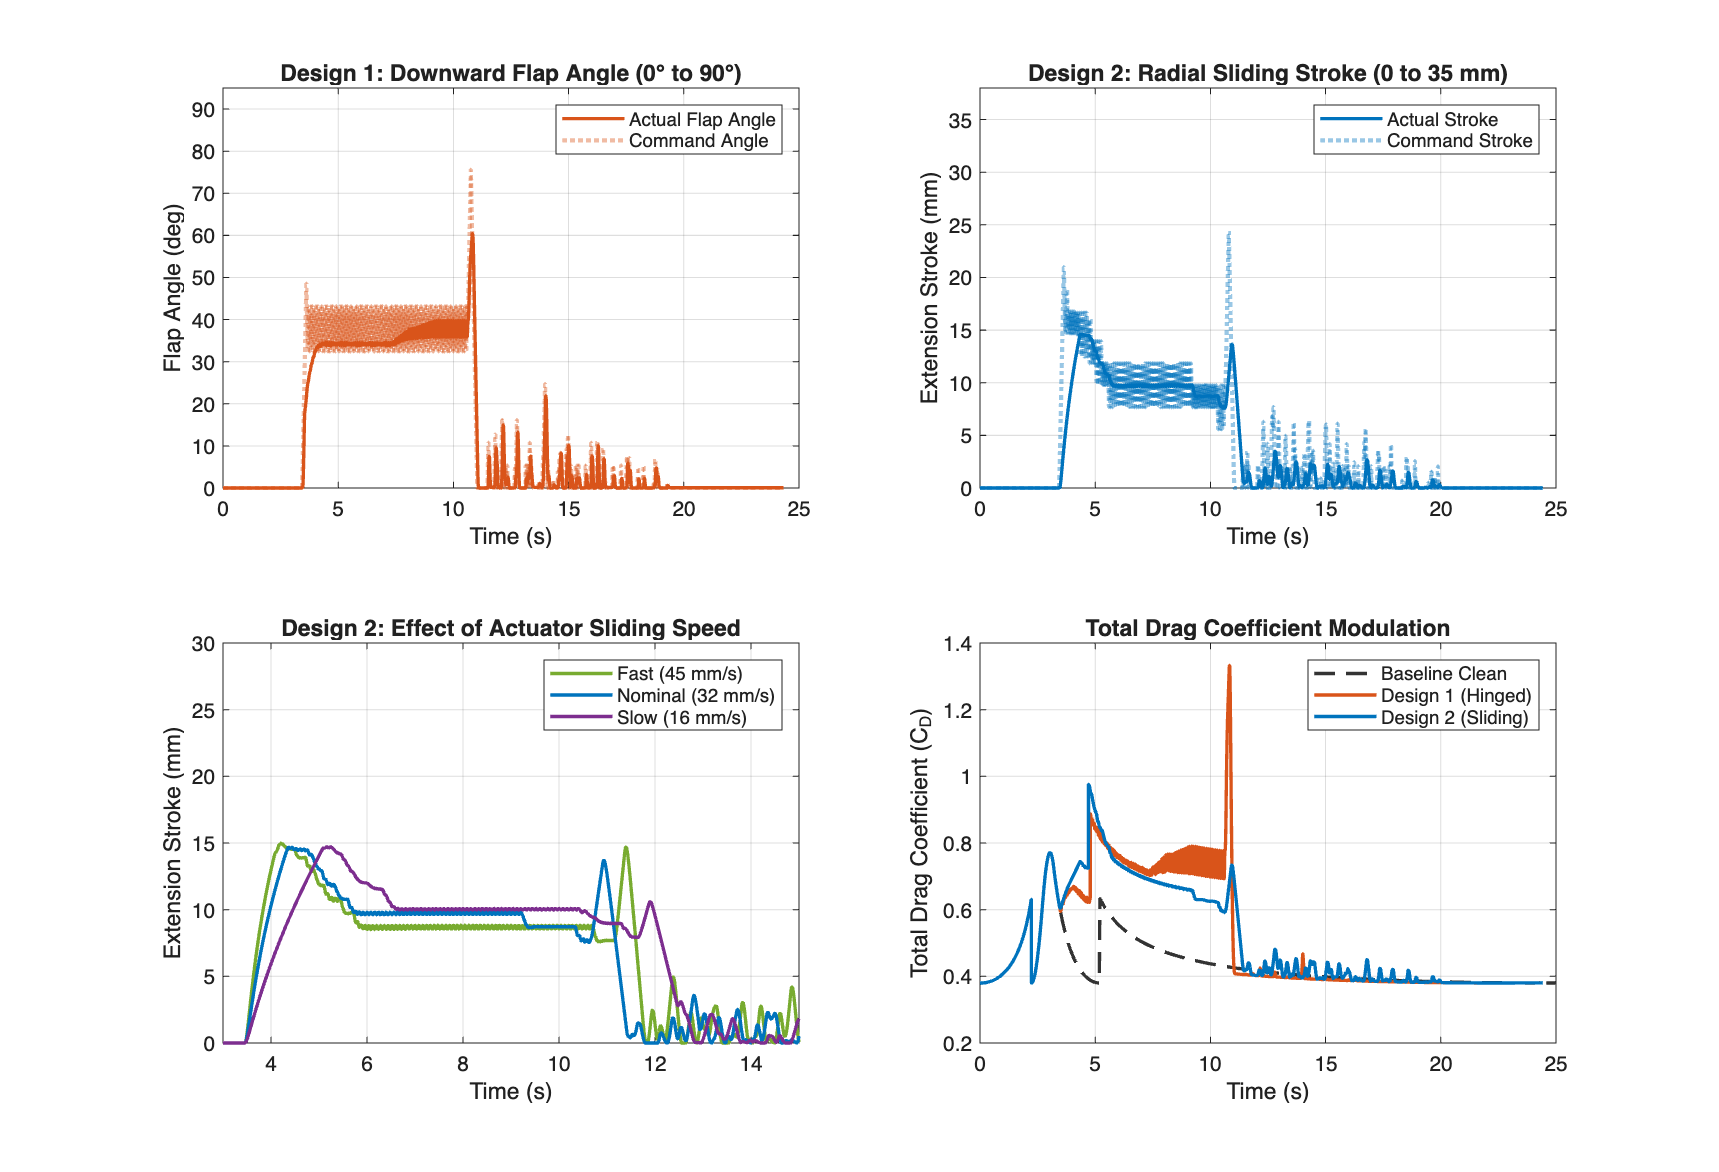
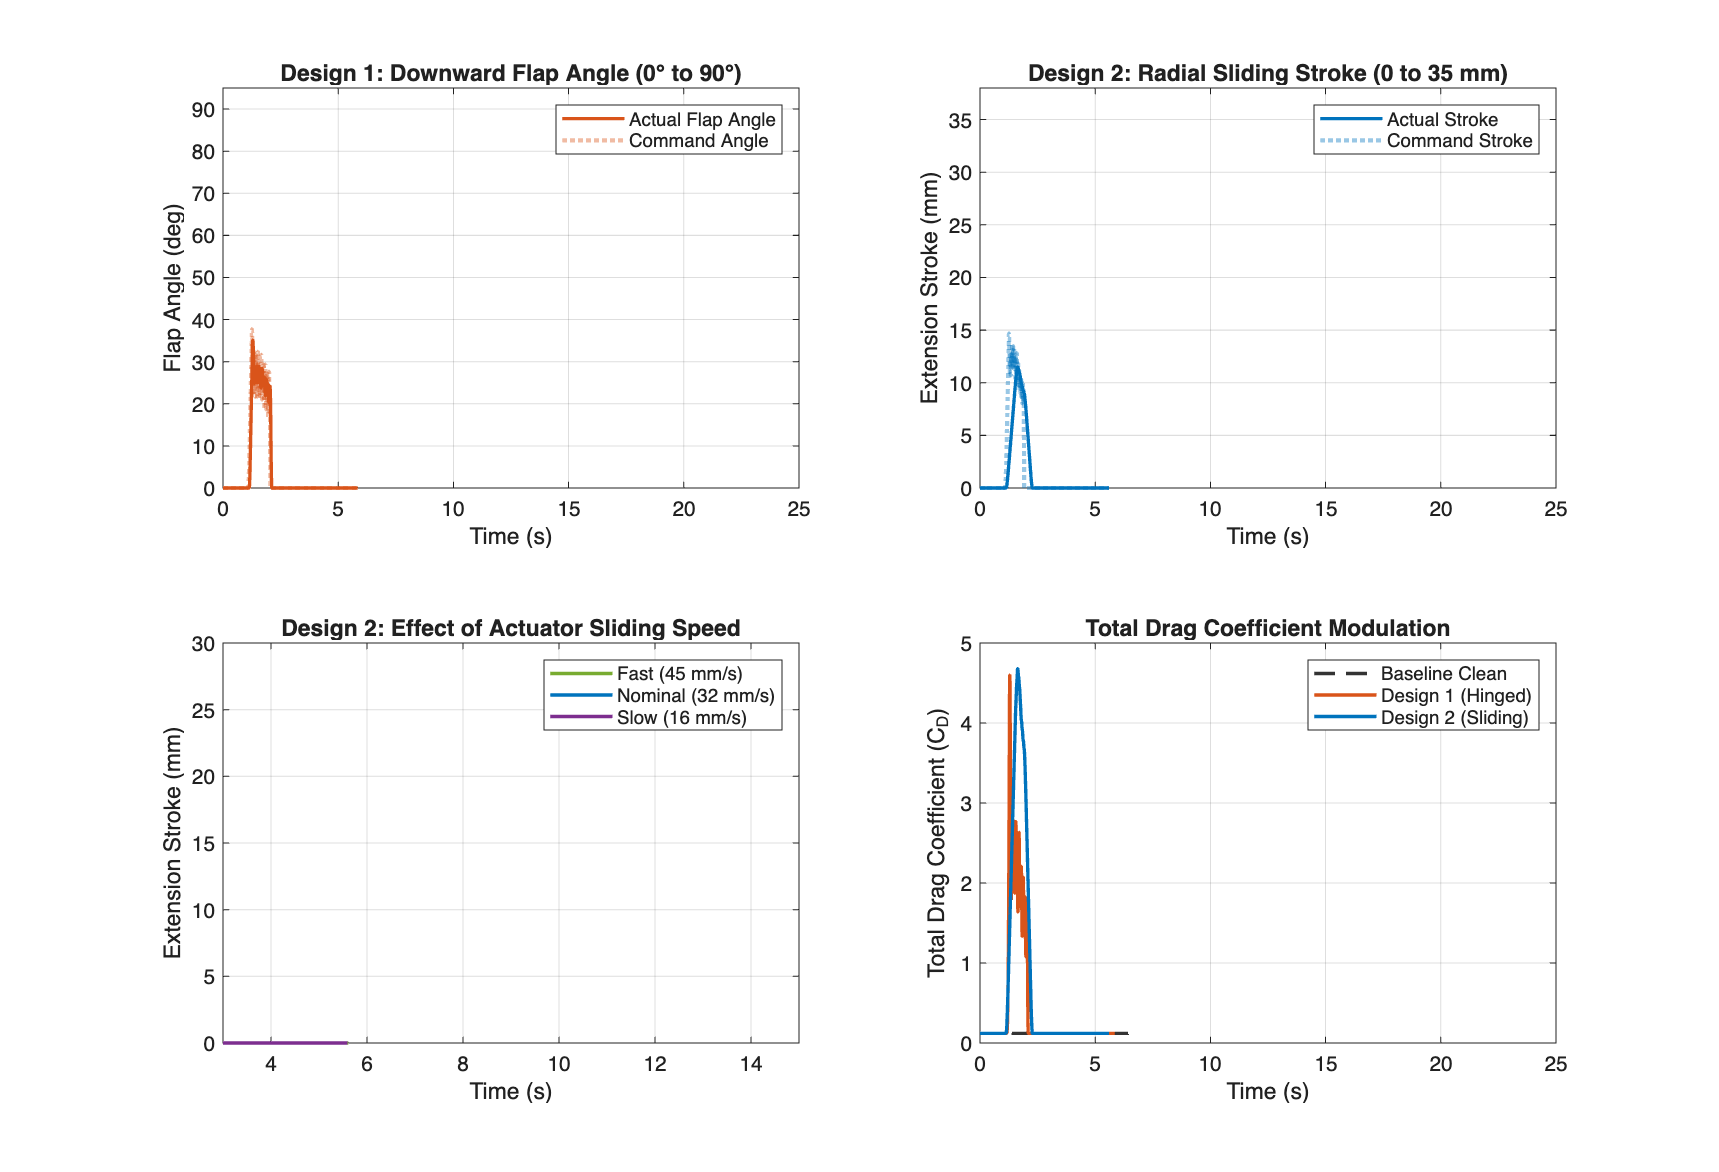
refactor: update rocket motor profile, simulation time, and target apogee to the actual first sim for the simple rocket in openrocket

diff --git a/scripts/init_airbrake_params.m b/scripts/init_airbrake_params.m
@@ -12,7 +12,7 @@ fprintf('==> Initializing 6-DOF Active Airbrake Simulation Parameters...\n');
 %% 1. Simulation & Environment Settings
 sim_params = struct();
 sim_params.t_start    = 0.0;     % Start time (s)
-sim_params.t_max      = 1200.0;    % Max simulation time (s)
+sim_params.t_max      = 20;    % Max simulation time (s)
 sim_params.dt         = 0.002;   % Continuous plant integration step (s) - 500 Hz
 sim_params.dt_fsw     = 0.020;   % Flight software sample time (s) - 50 Hz
 sim_params.g0         = 9.80665; % Standard gravity at sea level (m/s^2)
@@ -60,32 +60,40 @@ rocket.x_CP         = 0.30;                % Center of pressure from nose tip (m
 rocket.static_margin_wet = (rocket.x_CP - rocket.x_CG_wet) / rocket.diameter; % ~2.94 calibers
 rocket.static_margin_dry = (rocket.x_CP - rocket.x_CG_dry) / rocket.diameter; % ~4.51 calibers
 
-% Moment coefficients
-rocket.cxx_wet      = 0;                   % Roll moment coeff wet
-rocket.cxx_dry      = 0;                   % Roll moment coeff dry
-rocket.cyy_wet      = 3.34e-4;             % Pitch moment coeff wet
-rocket.cyy_dry      = 1.08e-4;             % Pitch moment coeff dry
-rocket.czz_wet      = -2.38e-4;            % Yaw moment coeff wet
-rocket.czz_dry      = 3.66e-4;             % Yaw moment coeff dry
+% % Moment coefficients
+% rocket.cxx_wet      = 0;                   % Roll moment coeff wet
+% rocket.cxx_dry      = 0;                   % Roll moment coeff dry
+% rocket.cyy_wet      = 3.34e-4;             % Pitch moment coeff wet
+% rocket.cyy_dry      = 1.08e-4;             % Pitch moment coeff dry
+% rocket.czz_wet      = -2.38e-4;            % Yaw moment coeff wet
+% rocket.czz_dry      = 3.66e-4;             % Yaw moment coeff dry
+% 
+% % Moments of Inertia [kg*m^2]
+% rocket.Ixx_wet      = rocket.cxx_wet * rocket.m_liftoff * (rocket.diameter / 2)^2;           % Roll inertia wet
+% rocket.Ixx_dry      = rocket.cxx_dry * rocket.m_dry * (rocket.diameter / 2)^2;               % Roll inertia dry
+% rocket.Iyy_wet      = rocket.cyy_wet * rocket.m_liftoff * (rocket.diameter / 2)^2;           % Pitch inertia wet
+% rocket.Iyy_dry      = rocket.cyy_dry * rocket.m_dry * (rocket.diameter / 2)^2;               % Pitch inertia dry
+% rocket.Izz_wet      = rocket.czz_wet * rocket.m_liftoff * (rocket.diameter / 2)^2;           % Yaw inertia wet
+% rocket.Izz_dry      = rocket.czz_dry * rocket.m_dry * (rocket.diameter / 2)^2;               % Yaw inertia dry
 
 % Moments of Inertia [kg*m^2]
-rocket.Ixx_wet      = rocket.cxx_wet * rocket.m_liftoff * (rocket.diameter / 2)^2;           % Roll inertia wet
-rocket.Ixx_dry      = rocket.cxx_dry * rocket.m_dry * (rocket.diameter / 2)^2;               % Roll inertia dry
-rocket.Iyy_wet      = rocket.cyy_wet * rocket.m_liftoff * (rocket.diameter / 2)^2;           % Pitch inertia wet
-rocket.Iyy_dry      = rocket.cyy_dry * rocket.m_dry * (rocket.diameter / 2)^2;               % Pitch inertia dry
-rocket.Izz_wet      = rocket.czz_wet * rocket.m_liftoff * (rocket.diameter / 2)^2;           % Yaw inertia wet
-rocket.Izz_dry      = rocket.czz_dry * rocket.m_dry * (rocket.diameter / 2)^2;               % Yaw inertia dry
+rocket.Ixx_wet      = 1e-3;               % Roll inertia wet
+rocket.Ixx_dry      = 9.66e-4;               % Roll inertia dry
+rocket.Iyy_wet      = 1e-3;                % Pitch inertia wet
+rocket.Iyy_dry      = 9.66e-4;                % Pitch inertia dry
+rocket.Izz_wet      = 1e-3;                % Yaw inertia wet
+rocket.Izz_dry      = 9.66e-4;                % Yaw inertia dry
 
 % Propulsion System: High-Power Solid Rocket Motor (e.g. Cesaroni / Aerotech L-Class)
 rocket.motor_name   = 'CTI L1050 / Aerotech L1150 High-Impulse';
-rocket.t_burn       = 1.83;                % Motor burn duration (s)
-rocket.thrust_peak  = 14.1;              % Peak thrust (N)
-rocket.thrust_avg   = 4.81;              % Average thrust (N)
-rocket.total_impulse= 8.82;              % Total impulse (N*s)
+rocket.t_burn       = 0.663;                % Motor burn duration (s)
+rocket.thrust_peak  = 9.73;              % Peak thrust (N)
+rocket.thrust_avg   = 3.48;              % Average thrust (N)
+rocket.total_impulse= 2.32;              % Total impulse (N*s)
 
 % Realistic 2-stage thrust profile (ignition spike -> plateau -> tail-off)
-t_prof = [0.0, 0.19, 0.40, 1.83, 1.96, 2.11];
-T_prof = [0.0, 14.1, 4.35, 0.0, 0.0, 0.0];
+t_prof = [0.0, 2.26e-1, 4.05e-1, 6.32e-1, 6.84e-1, 7.3e-1];
+T_prof = [0.0, 9.73, 2.50, 2.37, 1.15, 0.0];
 rocket.thrust_lut_t = t_prof;
 rocket.thrust_lut_T = T_prof;
 
@@ -201,7 +209,7 @@ electronics.battery.R_internal= 0.045;     % Internal resistance (Ohms) = 45 mOh
 
 %% 5. Guidance, Navigation, and Control (GNC) / PID Controller Parameters
 gnc = struct();
-gnc.target_apogee = 3000.0;   % Target apogee MSL (m)
+gnc.target_apogee = 50.6;   % Target apogee MSL (m)
 
 % Flight State Machine Thresholds
 gnc.burnout_acc_thresh = -5.0; % Acceleration drop (m/s^2) indicating motor burnout

diff --git a/scripts/init_airbrake_params_openrocket_example_simple_rocket.m b/scripts/init_airbrake_params_openrocket_example_simple_rocket.m
@@ -78,14 +78,14 @@ rocket.Izz_dry      = rocket.czz_dry * rocket.m_dry * (rocket.diameter / 2)^2;  
 
 % Propulsion System: High-Power Solid Rocket Motor (e.g. Cesaroni / Aerotech L-Class)
 rocket.motor_name   = 'CTI L1050 / Aerotech L1150 High-Impulse';
-rocket.t_burn       = 1.83;                % Motor burn duration (s)
-rocket.thrust_peak  = 14.1;              % Peak thrust (N)
-rocket.thrust_avg   = 4.81;              % Average thrust (N)
-rocket.total_impulse= 8.82;              % Total impulse (N*s)
+rocket.t_burn       = 0.663;                % Motor burn duration (s)
+rocket.thrust_peak  = 9.73;              % Peak thrust (N)
+rocket.thrust_avg   = 3.48;              % Average thrust (N)
+rocket.total_impulse= 2.32;              % Total impulse (N*s)
 
 % Realistic 2-stage thrust profile (ignition spike -> plateau -> tail-off)
-t_prof = [0.0, 0.19, 0.40, 1.83, 1.96, 2.11];
-T_prof = [0.0, 14.1, 4.35, 0.0, 0.0, 0.0];
+t_prof = [0.0, 2.26e-1, 4.05e-1, 6.32e-1, 6.84e-1, 7.3e-1];
+T_prof = [0.0, 9.73, 2.50, 2.37, 1.15, 0.0];
 rocket.thrust_lut_t = t_prof;
 rocket.thrust_lut_T = T_prof;
 
